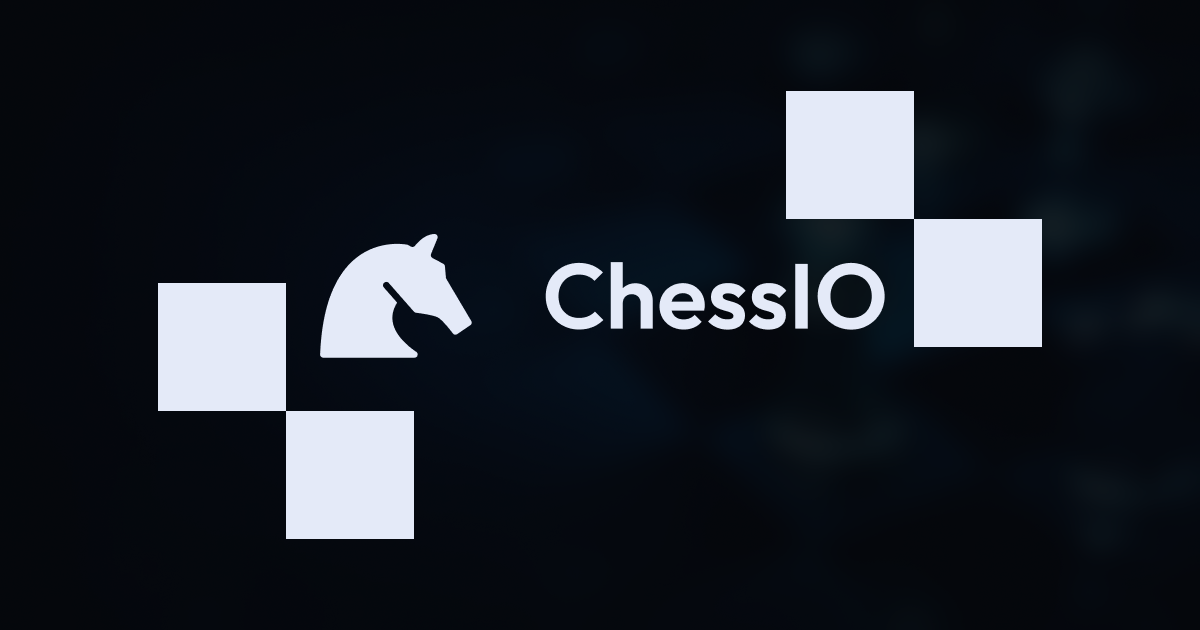
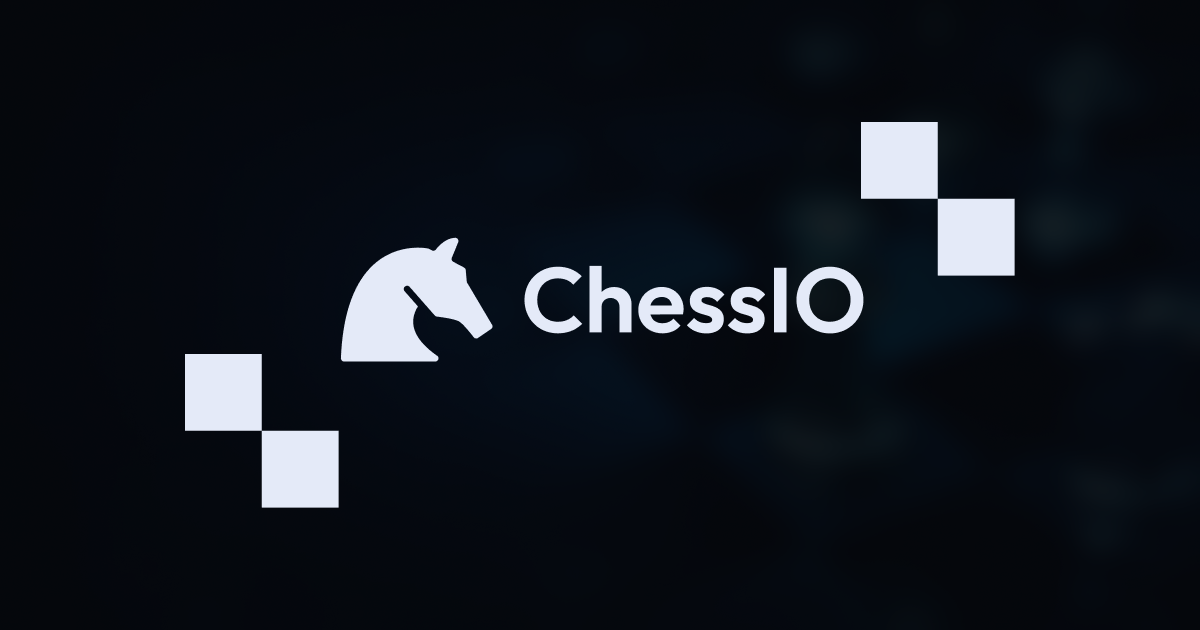
feat: Add marker components

Changed region(s): [[0.1233, 0.1206, 0.8942, 0.8746]]

diff --git a/app/auth/register/page.tsx b/app/auth/register/page.tsx
@@ -4,6 +4,7 @@ import FilledButton from '@/components/FilledButton';
 import Header from '@/components/Header';
 import InputField from '@/components/InputField';
 import Link from '@/components/Link';
+import Marker from '@/components/Marker';
 import CenteredGrid from '@/layout/CenteredGrid';
 import { Horse, Lock, Asterisk } from '@phosphor-icons/react';
 import { FormEvent, useState } from 'react';
@@ -20,7 +21,8 @@ export default function Page() {
 
     return (
         <CenteredGrid>
-            <section className="md:w-[512px] max-w-lg flex flex-col items-center p-2">
+            <section className="md:w-[512px] max-w-lg flex flex-col items-center p-2 relative">
+                <Marker />
                 <Header />
                 <section className="text-center flex flex-col mt-8">
                     <h2 className="font-bold mb-2 text-2xl">
@@ -33,7 +35,7 @@ export default function Page() {
                 <form
                     action="/"
                     onSubmit={handleUserRegistration}
-                    className="md:w-[512px]"
+                    className="w-full md:max-w-[512px] md:w-[512px]"
                 >
                     <section className="my-8 flex flex-col gap-2">
                         <InputField

diff --git a/app/auth/login/page.tsx b/app/auth/login/page.tsx
@@ -4,6 +4,7 @@ import FilledButton from '@/components/FilledButton';
 import Header from '@/components/Header';
 import InputField from '@/components/InputField';
 import Link from '@/components/Link';
+import Marker from '@/components/Marker';
 import CenteredGrid from '@/layout/CenteredGrid';
 import { Horse, Lock } from '@phosphor-icons/react';
 import { FormEvent, useState } from 'react';
@@ -19,7 +20,8 @@ export default function Page() {
 
     return (
         <CenteredGrid>
-            <section className="md:w-[512px] max-w-lg flex flex-col items-center p-2">
+            <section className="md:w-[512px] max-w-lg flex flex-col items-center p-2 relative">
+                <Marker />
                 <Header />
                 <section className="text-center flex flex-col mt-8">
                     <h2 className="font-bold mb-2 text-2xl">Log Back In</h2>

diff --git a/components/Marker.tsx b/components/Marker.tsx
@@ -1,0 +1,22 @@
+import Image from 'next/image';
+
+export default function Marker() {
+    return (
+        <>
+            <Image
+                width={128}
+                height={128}
+                src="/marker.svg"
+                alt=""
+                className="absolute top-[24px] left-[24px] -translate-x-1/2 -translate-y-1/2 z-[-99]"
+            />
+            <Image
+                width={128}
+                height={128}
+                src="/marker.svg"
+                alt=""
+                className="absolute bottom-[24px] right-[24px] translate-x-1/2 translate-y-1/2 z-[-99]"
+            />
+        </>
+    );
+}

diff --git a/app/globals.css b/app/globals.css
@@ -21,6 +21,7 @@ body {
     color: var(--foreground);
     background: var(--background);
     font-family: Arial, Helvetica, sans-serif;
+    overflow-x: hidden;
 }
 
 @layer utilities {
